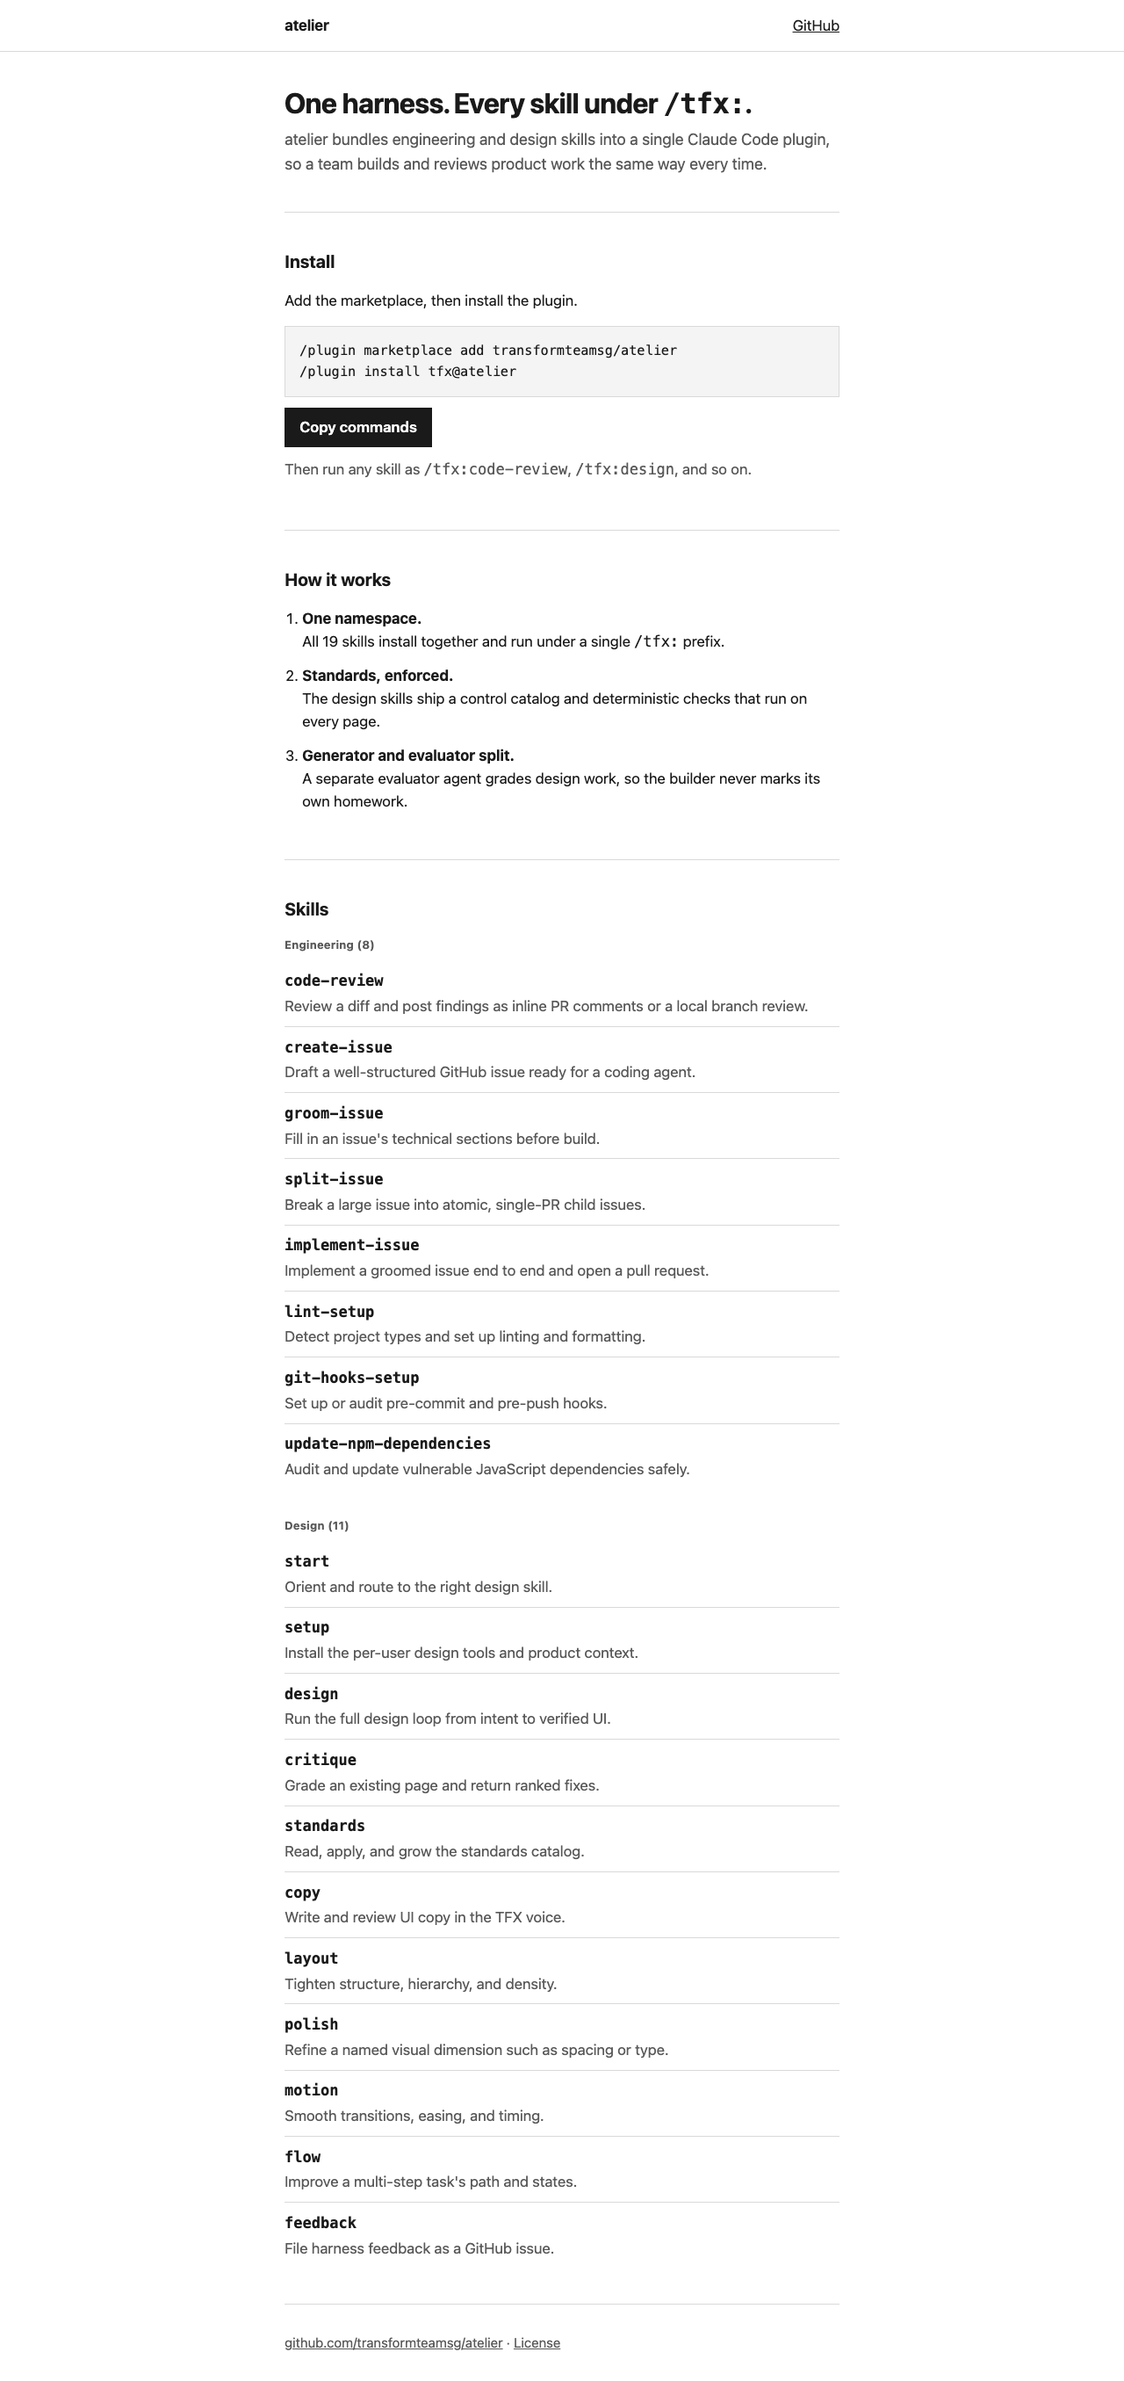
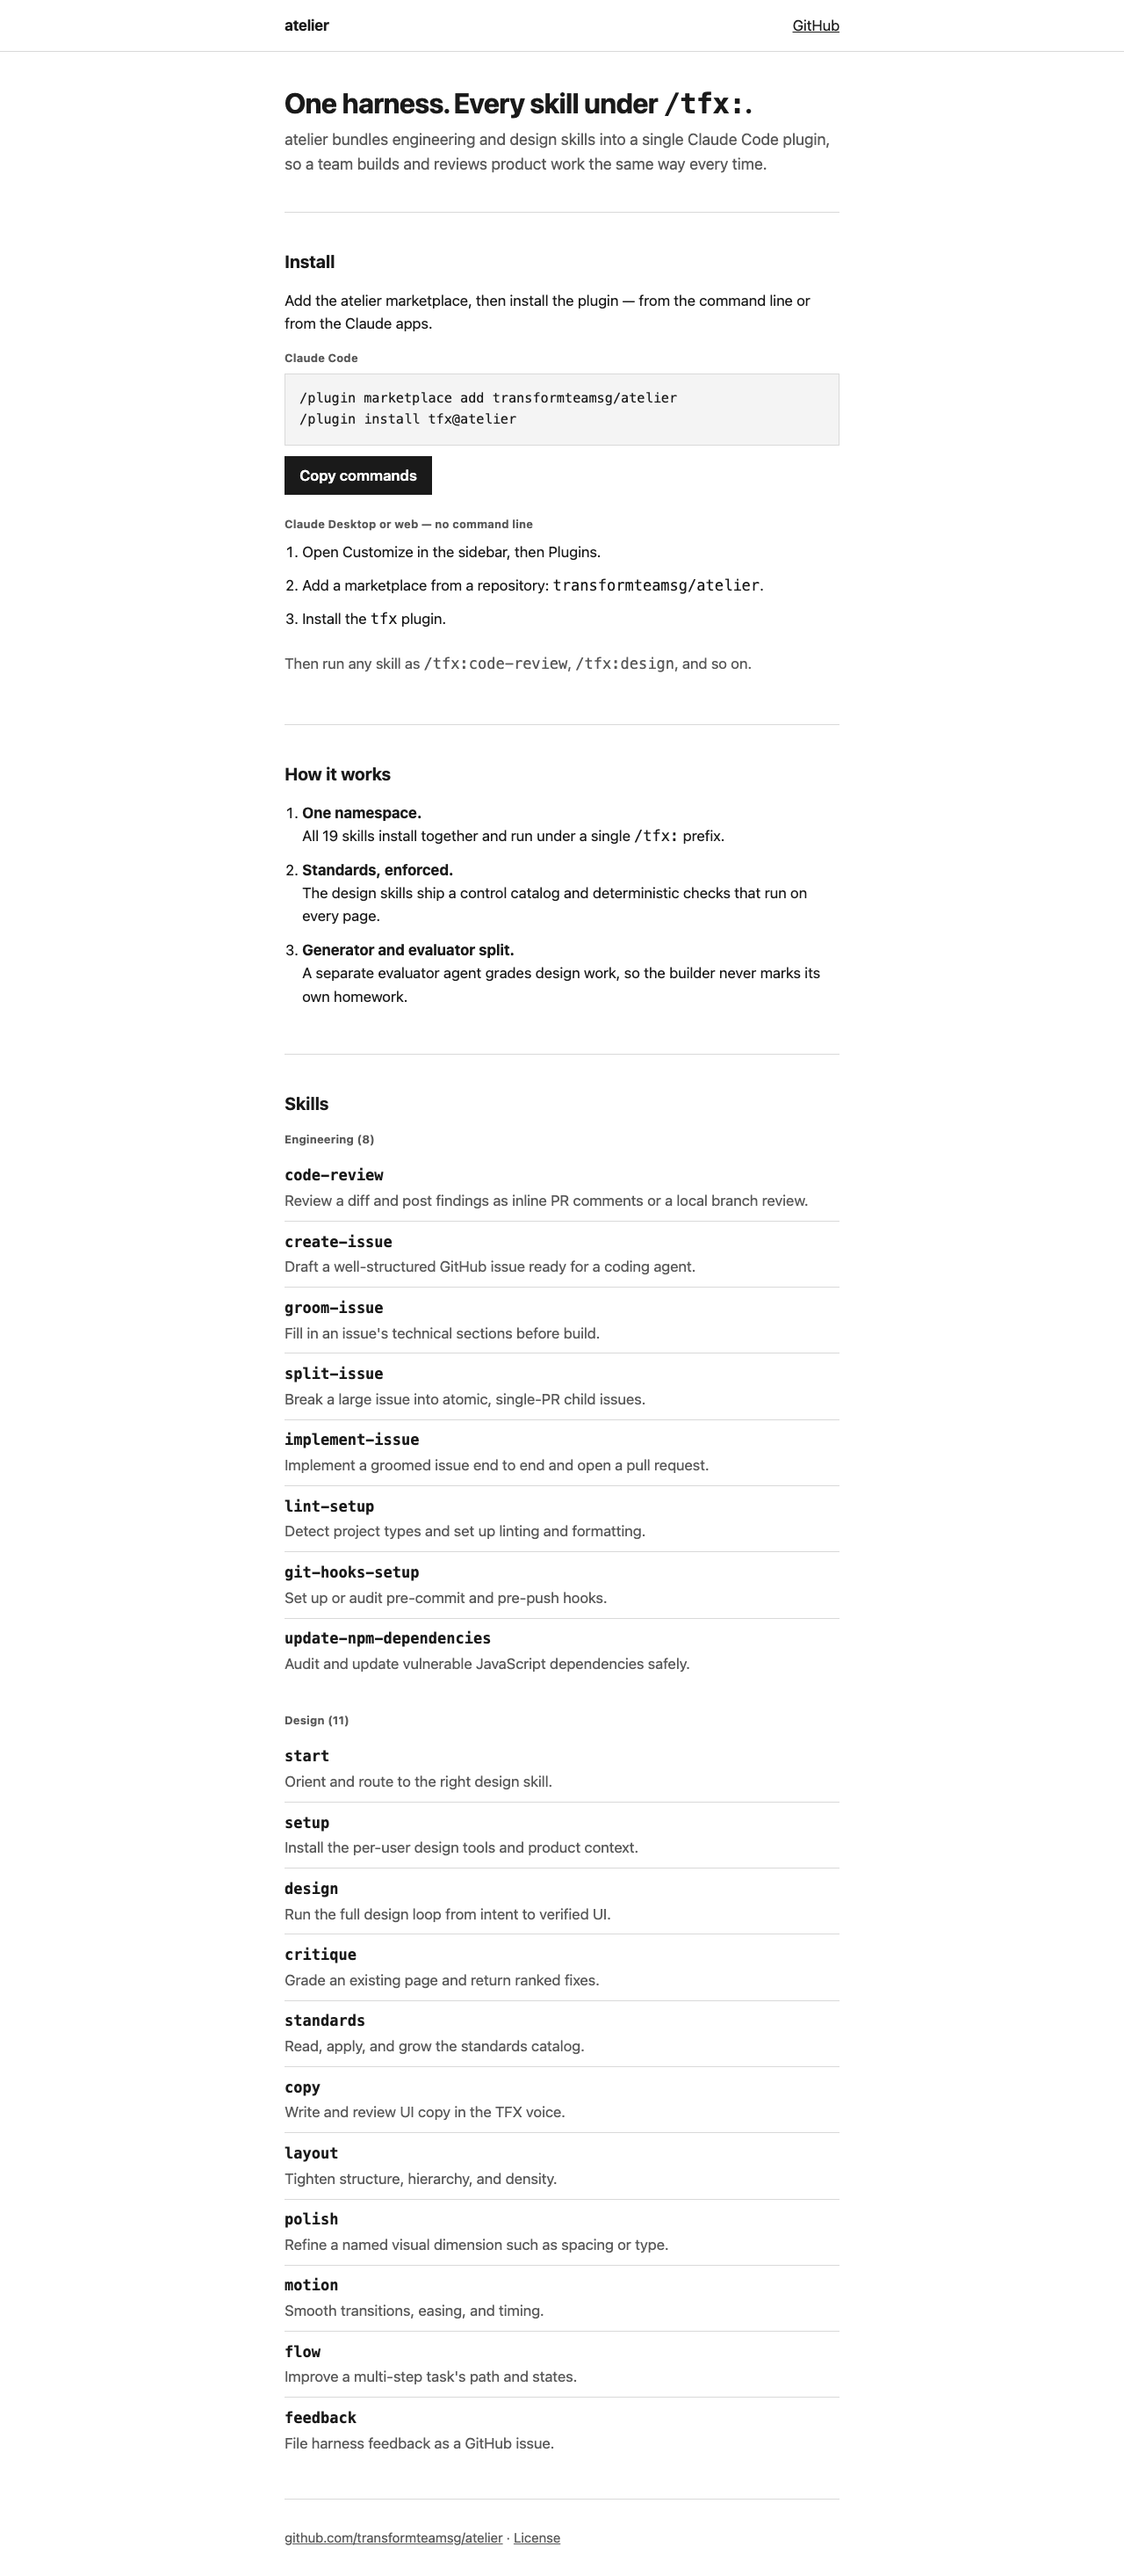
design(landing): add no-command-line Claude Desktop install path
Update the landing-page wireframe's Install section to match the
consolidated README (PR #12): keep the Claude Code CLI commands and add
a point-and-click Claude Desktop / web plugin path (Customize -> Plugins
-> add marketplace from repo -> install tfx) as a 3-step ordered list,
so non-technical visitors see they can install without a terminal.

Scoped tfx:design modification loop:
- Two labelled paths in one Install section; generalized the eyebrow h3
  rule to cover the new sub-path labels (avoids the baseline SLP-6 flat
  -h3 slip); added on-scale .path spacing. No new colours/fonts/sizes.
- Checks: a11y-static + content-lint clean; token-audit/type-scan hits
  all pre-existing #7 deferrals, none introduced.
- Screenshots re-captured full-page at 320/360/768/1280 (innerWidth
  verified); LAY-2 clean single-column reflow.
- tfx:evaluator verdict: pass (no blocking, no new advisory); CMP-5
  holds (one filled button), SLP-6/A11Y-7 satisfied. Pasted verbatim
  into docs/decisions/landing.md.

Changed region(s): [[0.25, 0.031, 0.75, 0.9919], [0.4688, 0.9609, 0.5, 0.9919]]

diff --git a/docs/landing/mock.html b/docs/landing/mock.html
@@ -48,7 +48,7 @@
     h2 { font-size: 1.25rem; margin: 0 0 1rem; }
     /* group label: an eyebrow a full step below body (17/13.6 = 1.25x), so it does
        not sit near-equal to h2 (SLP-6). Bold + muted, sentence case (TYP-4). */
-    .group h3 { font-size: 0.8rem; font-weight: 700; color: var(--muted); letter-spacing: .02em; margin: 0 0 .5rem; }
+    .group h3, .path h3 { font-size: 0.8rem; font-weight: 700; color: var(--muted); letter-spacing: .02em; margin: 0 0 .5rem; }
     .lede { font-size: 1.125rem; color: var(--muted); margin: 0; }
     p { margin: 0 0 1rem; }
     .muted { color: var(--muted); }
@@ -64,6 +64,8 @@
       border: 1px solid var(--ink); padding: .5rem 1rem; font: inherit;
       font-weight: 600; cursor: pointer; min-height: 44px;
     }
+    /* two install paths stacked, grouped by proximity (SLP-11) — not cards */
+    .path { margin: 0 0 1.5rem; }
 
     /* how it works: stepped-down prose points, NOT cards (SLP-5/11) */
     ol.points { margin: 0; padding-left: 1.25rem; }
@@ -104,14 +106,29 @@
         plugin, so a team builds and reviews product work the same way every time.</p>
       </section>
 
-      <!-- 2. INSTALL — the one primary action (CMP-5) -->
-      <section aria-labelledby="install-h">
+      <!-- 2. INSTALL — two paths, one primary action (CMP-5) -->
+      <section class="paths" aria-labelledby="install-h">
         <h2 id="install-h">Install</h2>
-        <p>Add the marketplace, then install the plugin.</p>
-        <div class="code">/plugin marketplace add transformteamsg/atelier
+        <p>Add the atelier marketplace, then install the plugin — from the command line
+        or from the Claude apps.</p>
+
+        <div class="path">
+          <h3>Claude Code</h3>
+          <div class="code">/plugin marketplace add transformteamsg/atelier
 /plugin install tfx@atelier</div>
-        <button class="btn" type="button">Copy commands</button>
-        <p class="muted" style="margin-top:.75rem">Then run any skill as <code>/tfx:code-review</code>, <code>/tfx:design</code>, and so on.</p>
+          <button class="btn" type="button">Copy commands</button>
+        </div>
+
+        <div class="path">
+          <h3>Claude Desktop or web — no command line</h3>
+          <ol class="points">
+            <li>Open Customize in the sidebar, then Plugins.</li>
+            <li>Add a marketplace from a repository: <code>transformteamsg/atelier</code>.</li>
+            <li>Install the <code>tfx</code> plugin.</li>
+          </ol>
+        </div>
+
+        <p class="muted">Then run any skill as <code>/tfx:code-review</code>, <code>/tfx:design</code>, and so on.</p>
       </section>
 
       <!-- 3. HOW IT WORKS — stepped-down points, not cards -->

diff --git a/docs/decisions/landing.md b/docs/decisions/landing.md
@@ -200,3 +200,167 @@ a11y-static/content-lint/token-audit/type-scan against the artifact.]
   2. `agent-browser` was not installed, so the verify phase could not capture the
      required width screenshots (LAY-2 left unverified). Onboarding/setup did not flag
      this before the design loop reached verify.
+
+---
+
+# Modification — 2026-07-24 — Install section: two install paths
+
+> Scoped `tfx:design` modification loop (structure fixed → diverge skipped). Triggered
+> by the README consolidation (PR #12): the README's Install section now documents a
+> no-command-line **Claude Desktop / web** plugin flow alongside the Claude Code CLI
+> commands, so the landing page's Install section was updated to match and re-verified.
+
+- **Date:** 2026-07-24
+- **Change type:** modification (install-section content + one CSS rule)
+- **Run type:** attended
+
+## Intent
+
+Update the Install section to reflect the new README: keep the Claude Code CLI commands
+and add the point-and-click Claude Desktop / web plugin path, so a non-technical visitor
+sees they can install without a terminal.
+
+## Sprint contract (done-criteria)
+
+1. Install section keeps the Claude Code CLI commands AND adds the no-command-line
+   Claude Desktop / web plugin path.
+2. A non-technical visitor can see they can install without a terminal.
+3. Standards floor held on the changed surface — no NEW violations vs the
+   deferred-to-#7 baseline.
+4. Exactly one primary action preserved (CMP-5).
+5. No anti-slop introduced (SLP-5 / SLP-6 / SLP-11).
+
+## Chosen approach
+
+Two labelled paths inside the *same* Install section (no new section, no cards):
+
+- **Claude Code** (`<h3>` eyebrow) — the existing two `/plugin` commands in a code block
+  + the existing single filled **"Copy commands"** button (the one primary action).
+- **Claude Desktop or web — no command line** (`<h3>` eyebrow) — a 3-step ordered list
+  reusing the existing `ol.points` pattern: open **Customize → Plugins**; add a
+  marketplace from the repository `transformteamsg/atelier`; install the **tfx** plugin.
+- The shared "Then run any skill as `/tfx:…`" line moved to the end of the section.
+
+CSS: the existing `.group h3` eyebrow rule was generalized to `.group h3, .path h3` so
+the new sub-path labels share the styled eyebrow (0.8rem bold muted) rather than falling
+to the UA default — avoiding the exact flat-`h3` slip caught at the baseline SLP-6
+finding. Added `.path { margin: 0 0 1.5rem }`. No colours, fonts, or type sizes added.
+
+Desktop-flow depth (concise 3-step vs one-line pointer vs full 5-step walkthrough) was
+put to the user at the plan gate; **concise 3-step chosen** (the fuller numbered steps
+live in the README).
+
+## Controls in scope (changed surface)
+
+CMP-5, SLP-5, SLP-11, SLP-6, A11Y-7, A11Y-1, A11Y-2, A11Y-4, CNT-2, SLP-9. Same fidelity
+and deferrals as baseline (COL-1/COL-2, TOK-1, TYP-1/TYP-2/TYP-3 deferred to #7;
+IDN + CaseSync N/A; CMP-2/CMP-3/A11Y-11 N/A — Copy button remains unwired).
+
+## Tradeoffs, named
+
+- The section is longer (two paths vs one). Accepted — serving non-code practitioners is
+  the explicit goal, and stacked labelled paths keep 320px reflow trivial (no columns,
+  no tabs).
+
+## Plan approval
+
+- **Approved by:** user (interactive Approve at the Phase 3 gate)
+- **Approved on:** 2026-07-24
+
+## Verify
+
+- **Deterministic checks** (against `docs/landing/mock.html`):
+  `a11y-static.py` clean; `content-lint.py` (SLP-9) clean; `token-audit.py` 3 raw `#fff`
+  hits and `type-scan.py` TYP-1/2/3 hits — all on pre-existing lines, none introduced by
+  this change, deferred to #7 per baseline.
+- **Screenshots:** RE-CAPTURED at 320/360/768/1280 (`docs/landing/screenshots/`), each
+  frame's `window.innerWidth` verified against its filename. LAY-2 confirmed: single-column
+  reflow at 320px, no page-level horizontal scroll; the two install paths stack cleanly
+  and the Desktop ordered list wraps. The install command still overflows the code block
+  horizontally at 320px — the allowed `overflow-x:auto` exception (WCAG 1.4.10), same
+  pre-existing finding logged for #7, not a blocker.
+- **CMP-5:** exactly one filled button on the whole page (`Copy commands`, mock.html) —
+  the Desktop path added no button.
+
+- **Evaluator verdict (pasted verbatim from the `tfx:evaluator` agent):**
+
+```
+VERDICT: pass
+
+BLOCKING (must fix before ship):
+- (none — no in-scope L0/L1 control failed on the changed surface with no deferral/waiver on file)
+
+ADVISORY (should fix):
+- (none new introduced by this modification. For continuity: the shared eyebrow rule at
+  `mock.html:51` — now generalized to `.group h3, .path h3` — renders the new sub-path
+  labels at 0.8rem/12.8px, which `type-scan` flags TYP-2 (below the 14px body floor, L1)
+  and TYP-3 (off-scale). This is the exact same eyebrow size already in use for the
+  catalogue group labels and already recorded as DEFERRED to #7 in both
+  docs/decisions/landing.md and docs/landing/wireframe.md. The modification reused an
+  established, already-deferred size — it did not introduce a new off-scale value — so it
+  does not breach contract criterion 3. Flagging only so #7 remembers these two new labels
+  are now inside the TYP-2/TYP-3 deferral scope and must be resolved there too when the
+  token/type infrastructure lands.)
+
+SUGGESTIONS (not violations — layout/pattern improvements the builder may take):
+- In #7, consider making the "Claude Code" and "Claude Desktop or web" eyebrows visually
+  parallel to the catalogue group eyebrows they now share a rule with, so the reuse is
+  intentional-looking rather than incidental — serves SLP-6 hierarchy legibility.
+- The intro line and the trailing "Then run any skill as…" line now bracket two paths; a
+  hair more vertical separation before the trailing line at 1280px would make it read as
+  "applies to both paths" rather than trailing the Desktop steps — serves LAY-7 grouping.
+  Minor.
+
+QUALITY GRADES (scoped to the Install section as changed):
+- Design quality: strong — the two labelled paths read in task order, the eyebrow labels
+  create a genuine step-down, and "no command line" directly answers the non-technical
+  visitor's question at the point of doubt; proximity/spacing groups each path without chrome.
+- Originality: strong — restrained and correct: reused the existing `ol.points` and eyebrow
+  patterns and grouped by spacing rather than inventing a card or a novel component; no SLP
+  tells introduced.
+- Craft: strong — deliberate reuse of established patterns, one CSS selector generalized
+  cleanly, an on-scale `.path` spacing rule added, no new colours/fonts/sizes; the unwired
+  Copy button is expected at this fidelity.
+- Functionality: acceptable — at wireframe fidelity both paths fully communicate the install
+  task with no dead ends; the Desktop path is instructional prose (no interactive step to
+  break), and the Copy button remains intentionally unwired (CMP-3/A11Y-11 out of scope).
+- Dark mode: N/A — product/artifact has no dark mode (single greyscale mockup, no `.dark`
+  layer or toggle).
+
+JUDGMENT CONTROL NOTES (one line per in-scope judgment/hybrid control):
+- [CMP-5] pass — exactly one filled/primary button on the whole page: <button class="btn">
+  Copy commands</button>; every other link is an <a> in body/muted ink, none filled. The
+  added Desktop path introduced no button.
+- [SLP-6] pass — new sub-path labels styled via `.path h3` at 0.8rem/12.8px = ~1.33x below
+  17px body and ~1.66x below the 1.25rem h2; without this rule they would have fallen to the
+  UA <h3> default (~19.9px, ~1.07x to h2), the exact flat-hierarchy slip caught at baseline —
+  the change prevents it rather than reintroducing it.
+- [SLP-5] pass — Desktop path is a real <ol class="points">; no icon-tile-above-heading
+  template, no identical-card grid.
+- [SLP-11] pass — the `.path` wrappers carry only margin, no border/shadow/radius/background;
+  static content grouped by spacing + eyebrow type, not boxed as cards.
+- [A11Y-7] pass — heading walk h1 (hero) → h2 "Install" → h3 "Claude Code" / h3 "Claude
+  Desktop or web — no command line" with no skipped level; both new headings describe their
+  content; list is a real <ol>.
+- [A11Y-1] pass — no colours changed; new eyebrow uses --muted #595959 on white = ~7.0:1 (AA
+  for 12.8px bold); a11y-static.py clean.
+- [A11Y-2] pass — only interactive control on the surface is the Copy button (unchanged);
+  global :focus-visible, no outline removal; no new focusable element added.
+- [A11Y-4] pass — Copy button min-height: 44px meets the mobile target; no new targets added.
+- [CNT-2] pass — new labels/steps are plain and function-named; "Customize"/"Plugins" mirror
+  the actual Claude app labels; no portmanteaus or codenames.
+- [SLP-9] pass — content-lint.py clean; the intro em-dash does real work (not a chain), no
+  buzzwords, no forced triad, one idea per list line.
+
+UNCOVERED (defects no control covers — feed the ratchet):
+- (none — every defect surface here is covered by an in-scope control or by the documented
+  #7 deferral. No new gap found in this scoped modification.)
+```
+
+## Ratchet (modification)
+
+- **No new catalog control proposed** — the modification introduced no uncovered defect;
+  every in-scope control passed and the only script hits are the documented #7 deferrals.
+- **Carried forward to #7:** the two new install sub-path eyebrows join the existing
+  TYP-2/TYP-3 deferral scope; the 320px code-block overflow finding still stands for the
+  React build.

diff --git a/docs/landing/wireframe.md b/docs/landing/wireframe.md
@@ -16,7 +16,7 @@ Colour (COL-1/2), colour tokens (TOK-1), and the Plus Jakarta Sans / Inter fonts
 |---|---------|---------|-----------------------|----------|
 | — | Skip link + landmarks | "Skip to content"; `<header>/<main>/<footer>`; one `<h1>`; page `<title>` | Layout shell | A11Y-6, A11Y-7, A11Y-9, A11Y-10 |
 | 1 | Hero | Wordmark, `<h1>` tagline, one-line lede. The single focal region. | Section + heading + lede | LAY-7, TYP (hierarchy), SLP-6 |
-| 2 | Install | Two `/plugin` commands in a code block; a "Copy commands" button as the one primary action; a follow-up line on `/tfx:` usage. | shadcn Button (primary) + code block | CMP-5, A11Y-2, A11Y-4 (44px target), CNT-2 |
+| 2 | Install | Two labelled paths in one section: **Claude Code** (two `/plugin` commands in a code block + a "Copy commands" button as the one primary action) and **Claude Desktop or web** (a 3-step ordered list for the no-command-line plugin flow); a shared follow-up line on `/tfx:` usage. | shadcn Button (primary) + code block + ordered list | CMP-5, SLP-5, SLP-11, SLP-6, A11Y-7, A11Y-2, A11Y-4 (44px target), CNT-2 |
 | 3 | How it works | Three stepped-down points (one namespace; standards enforced; generator/evaluator split) as an ordered list, not cards. | Ordered list | SLP-5, SLP-11, SLP-6, SLP-7 |
 | 4 | Skill catalogue | Two groups (Engineering 8, Design 11), each a description list of name + one-line summary. Not a card grid. | Description list (`<dl>`) per group | SLP-5, SLP-11, A11Y-7 |
 | 5 | Footer | Repo link + license link. | Footer | A11Y-1, CNT-12 |
@@ -31,7 +31,8 @@ browse what it ships (catalogue) -> find the source (footer). One primary focal 
 ## Content inventory (issue #3 acceptance)
 
 - Hero: what atelier is. Present.
-- Install: the two `/plugin` commands. Present.
+- Install: the two `/plugin` commands (Claude Code) plus a no-command-line Claude
+  Desktop / web plugin path (3-step list). Present.
 - Skill catalogue: 19 skills, 8 engineering + 11 design, names matching `plugins/tfx/skills/`. Present.
 - How it works: one `/tfx:` namespace, standards + checks, evaluator split. Present.
 - Footer: repo link + license. Present.
@@ -43,8 +44,10 @@ browse what it ships (catalogue) -> find the source (footer). One primary focal 
 - **LAY-4 / TYP-6** (measure): body column capped at `--measure: 42rem` (~66ch).
 - **LAY-7** (one focal region, reading order): hero is the sole focal region; order
   above.
-- **SLP-5 / SLP-11** (no card slop): how-it-works is an ordered list; the catalogue is
-  grouped description lists. No card chrome anywhere.
+- **SLP-5 / SLP-11** (no card slop): the Claude Desktop install path and how-it-works
+  are ordered lists; the catalogue is grouped description lists. The two install paths
+  are grouped by spacing (`.path` margin only — no border/shadow/radius). No card chrome
+  anywhere.
 - **SLP-6 / SLP-7** (hierarchy, rhythm): hierarchy from size/weight; related items
   grouped tighter than unrelated (section padding vs in-list spacing).
 - **A11Y-1** (contrast): greys are AA on white (ink ~16:1, muted ~7:1); primary button
